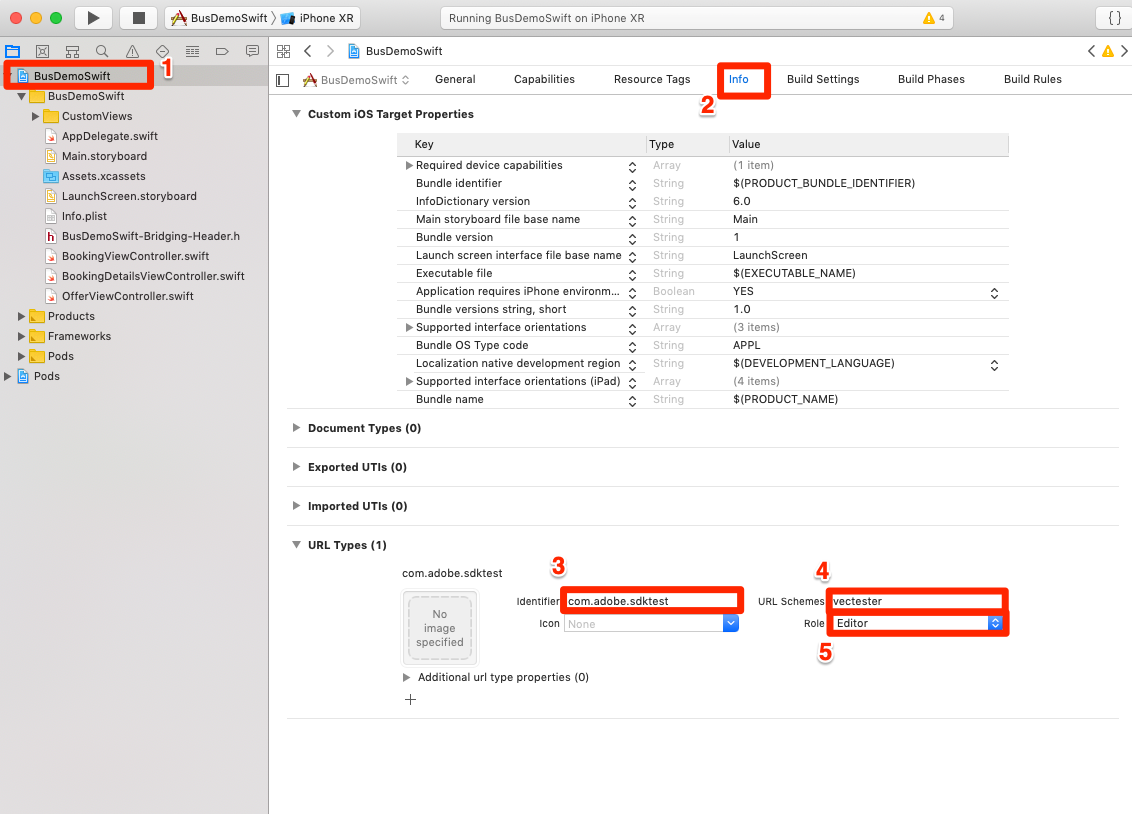
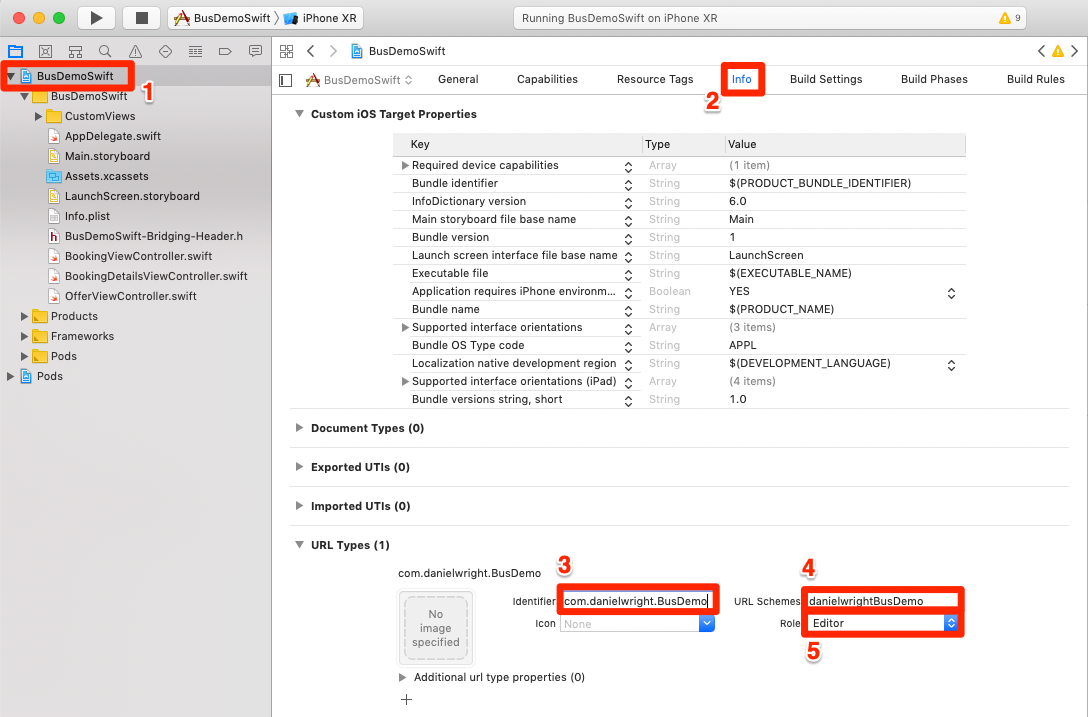
Target VEC section updates

Changed region(s): [[0.0, 0.0, 1.0, 1.0], [0.5625, 0.1534, 0.5938, 0.1841]]

diff --git a/help/mobile-ios-implementation/target.md b/help/mobile-ios-implementation/target.md
@@ -10,13 +10,20 @@ solution: Experience Cloud
 
 In this lesson, we will enable the Target Visual Experience Composer (VEC) for Mobile apps.
 
-[Adobe Target](https://marketing.adobe.com/resources/help/en_US/target/) is the Adobe Marketing Cloud solution that provides everything you need to tailor and personalize your customers' experience, so you can maximize revenue on your web and mobile sites, apps, social media, and other digital channels.
+[Adobe Target](https://marketing.adobe.com/resources/help/en_US/target/) is the Adobe Experience Cloud solution that provides everything you need to tailor and personalize your customers' experience, so you can maximize revenue on your web and mobile sites, apps, social media, and other digital channels.
+
+The Visual Experience Composer (VEC) for Native Mobile Apps lets you create activities and personalize content on native mobile apps in a do-it-yourself fashion without continuous development dependencies and app-release cycles.
+
+In the lesson [Add Extensions](launch-add-extensions.md), you added the Target VEC extension to your Launch property. In the lesson [Install the Mobile SDK](launch-install-the-mobile-sdk.md) you imported the extension into the sample application. Only a few minor updates are required to start setting up activities in Target's mobile visual experience composer!
+
+>[!NOTE] Both the Target and Target VEC Launch extensions are required to use the Target VEC in your mobile application.
 
 ## Learning Objectives
 
 At the end of this lesson, you will be able to:
 
 * Enable the sample app for the Target VEC
+* Add parameters to the Target VEC request
 * Pair your device with the VEC
 * Create an activity using the VEC
 
@@ -24,25 +31,83 @@ At the end of this lesson, you will be able to:
 
 To complete the lessons in this section, you must first complete the lessons in [Configure Launch](launch-create-a-property.md) section.
 
-## Enabling the VEC
+## Enable logging for the Target VEC extension
 
-In the lesson [Add Extensions](launch-add-extensions.md), you added the Target VEC extension to your Launch property, and in the lesson [Install the Mobile SDK](launch-install-the-mobile-sdk.md) you imported the extension into the sample application. Only a few minor updates are required to start setting up activities in Target's mobile visual experience composer!
+This is an optional step that will turn on special console logging specific to the VEC extension.
 
->[!NOTE] Both the Target and Target VEC Launch extensions are required to use the Target VEC in your mobile application.
+**To enable logging**
 
-iOS supports the use of [custom URL schemes](https://developer.apple.com/documentation/uikit/core_app/allowing_apps_and_websites_to_link_to_your_content/defining_a_custom_url_scheme_for_your_app) to deep link to your app. You might already be using custom URL schemes in your app already.
+1. Open the AppDelegate.swift file
+1. Add the line of code `ACPTargetVEC.allowDebugLogging(true)` just below the line where you register the Target VEC Extension
+
+   ![Enable Target VEC Logging](images/mobile-targetvec-enableLogging.png)
+
+Now that you've enabled the logging, it's time to confirm that it is working.
+
+**To verify the logging**
+
+1. Save the XCode project
+1. Rebuild the app
+1. When the app has opened successfully click in the Console pane of XCode
+1. Use ⌘-F to open the Find box
+1. Search for `targetvec` in the Find box
+1. Hit `Enter` to jump to the Target request and Post body (Note that the Lifecycle parameters are automatically included):
+
+   ![Verify Target VEC Logging](images/mobile-targetvec-requestInConsole.png)
+
+## Add Parameters
+
+As you just saw in the last exercise, app Lifecycle metrics are automatically included as parameters in the Target VEC request. You can also add custom parameters to the requests.
+
+**To add custom parameters**
+
+1. In XCode, open the `BookingViewController.swift` file
+1. Import the Target VEC extension by adding `import ACPTargetVEC_iOS` beneath the existing import:
+1. In the `viewDidLoad()` function, after the line with `super.viewDidLoad()` add the following code. This example code shows how mbox parameters, profile parameters, product (or entity) parameters, and order parameters can be added to the TargetVEC request. This example uses static values, while in your actual app you would want to use dynamic variables to populate the values:
+
+```swift
+        let mboxParams = ["mboxparam1":"mboxvalue1"]
+        let profileParams = ["profilekey1":"profilevalue1"]
+        let product : TargetProduct = TargetProduct.init(productId: "1234", categoryId: "furniture")
+        let order : TargetOrder = TargetOrder.init(orderId: "12345", total: 123.45, purchasedProductIds: ["100", "200"])
+        let targetParams : TargetParameters = TargetParameters.init(parameters: mboxParams, profileParameters: profileParams, product: product, order: order)
+        ACPTargetVEC.setGlobalRequest(targetParams)
+```
+
+   ![Add Parameters to the TargetVEC request](images/mobile-targetvec-addParameters.png)
+
+Now that you've added parameters to the app, it's time to confirm they are being passed in the request.
+
+**To verify the parameters**
+
+1. Save the XCode project
+1. Rebuild the app
+1. When the app has opened successfully click in the Console pane of XCode
+1. Use ⌘-F to open the Find box
+1. Search for `targetvec` in the Find box
+1. Hit `Enter` to jump to the Target request and Post body (Note that the Lifecycle parameters are automatically included):
+
+   ![Verify Parameters to the TargetVEC request](images/mobile-targetvec-verifyParams.png)
+
+## Pairing the Mobile App with the Target UI
+
+In order to create VEC activities in the Target interface, you must first pair Target with your app. This pairing is achieved with the use of deep links.
+
+### Creating the Deep Link Scheme
+
+iOS supports the use of [Universal Links](https://developer.apple.com/documentation/uikit/core_app/allowing_apps_and_websites_to_link_to_your_content) and [custom URL schemes](https://developer.apple.com/documentation/uikit/core_app/allowing_apps_and_websites_to_link_to_your_content/defining_a_custom_url_scheme_for_your_app) to create deep links to your app. You are probably already using custom URL schemes in your app already. If so, you can use these existing links to pair with Target. For this tutorial using the sample app in the simulator, you must create a custom URL scheme.
 
 **To register your URL Scheme**
 
 1. In XCode, click on your app to open the Settings screen
 1. On the Settings screen, click the `Info` tab
-1. Enter the **[!UICONTROL Identifier]** (e.g. `com.adobe.sdktest`)
-1. Enter the **[!UICONTROL URL Scheme]** (e.g. `vectester`)
+1. Enter a **[!UICONTROL Identifier]** (e.g. `com.danielwright.BusDemo` substituting your name for `danielwright`)
+1. Enter the **[!UICONTROL URL Scheme]** (e.g. `danielwrightBusDemo` substituting your name for `danielwright`)
 1. Make sure  **[!UICONTROL Editor]** is selected as the **[!UICONTROL Role]**
 
    ![Register the URL Scheme](images/mobile-targetvec-registerScheme.png)
 
-1. Click on the `General` tab
+1. Click on the `General` tab so the scheme will save
 1. Click back on the `Info` tab, expand the `URL type` section and verify that your URL type saved
   
 The next step is to add a handler to the deep link.
@@ -50,11 +115,26 @@ The next step is to add a handler to the deep link.
 **To handle the deep links**
 
 1. Open the AppDelegate.swift file
-1. Add the line `ACPTargetVEC.handleDeepLink(url)` to the `application(_:open:options;)` method `AppDelegate:application:openURL` section as pictured below
+1. Add the line `ACPTargetVEC.handleDeepLink(url)` to the `AppDelegate:application:openURL` section as pictured below
    ![Update the AppDelegate file](images/mobile-targetvec-appDelegate.png)
-1. Rebuild the app in the simulator again
 
-Now, when a user with your app installed opens the URL `vectester://com.adobe.sdktest` it will open your application.
+### Verify the deep link
+
+Now, when a user with your app installed opens the URL `danielwrightBusDemo://com.danielwright.BusDemo` (or whatever scheme you defined) it will open your application.
+
+**To verify the deep link scheme**
+
+1. Save the XCode project
+1. Rebuild the app
+1. In the simulator, open Safari
+1. Enter the url scheme you just defined into the address bar, e.g. `danielwrightBusDemo://com.danielwright.BusDemo`
+1. You should get prompted with a modal to "Open this page in "BusDemoSwift" (if you get a Google search results page, try reentering the deep link into the address bar)
+1. Click `Open`
+1. This should open the sample application
+
+   ![Verify the deep link](images/mobile-targetvec-verifyDeepLink.png)
+
+Now that your deep link structure is set up, you are ready to use the Target VEC to set up activities!
 
 ## Create an activity in the Mobile VEC
 
@@ -62,9 +142,15 @@ Now let's create an activity in the Target UI.
 
 **To Create an Activity with the Target VEC**
 
-1. Log into the Experience Cloud
+1. Log into the [Adobe Experience Cloud](https://experiencecloud.adobe.com)
 1. Use the solution switcher to go to Target
+
+   ![Verify the deep link](images/mobile-targetvec-goToTarget.png)
+
 1. Launch Target
+
+   ![Verify the deep link](images/mobile-targetvec-launchTarget.png)
+
 1. Click the **[!UICONTROL Create Activity]** button and select **[!UICONTROL A/B Test]**
 1. Select **[!UICONTROL Mobile App]**
 1. Make sure **[!UICONTROL Visual]** is selected under **[!UICONTROL Choose Experience Composer]**
@@ -72,15 +158,58 @@ Now let's create an activity in the Target UI.
   
    ![Create an A/B Activity using the Mobile VEC](images/mobile-targetvec-createActivity.png)
 
-1. Enter `vectester://com.adobe.sdktest` in the **[!UICONTROL Enter URL scheme ://]** field
+1. On the **[!UICONTROL Select an app to use]** screen, click **[!UICONTROL Add New App]**
+
+   ![Add a new app](images/mobile-targetvec-addNewApp.png)
+
+1. Enter the url scheme you just defined in the  **[!UICONTROL Enter URL scheme]** field, e.g. `danielwrightBusDemo://com.danielwright.BusDemo`
 1. Click **[!UICONTROL Create Deep Link]**
+
    ![Enter your URL Scheme and Create the Deep Link](images/mobile-targetvec-enterURLScheme.png)
-1. Select the **[!UICONTROL Email]** tab.
-1. Enter your email address in the **[!UICONTROL Primary address]** field
-1. Click the **[!UICONTROL Send]** button
-1. Now open the app in the simulator
-1. Log into your web-based email and...
-   ![test](images/mobile-targetvec-sendURL.png)
-   ![test](images/mobile-targetvec-openEmailInEmulator.png)
+
+    >![NOTE] You have a few options to send the deep link to the app. You can:
+    >
+    >   1. Take a photo of the QR code if you have an iOS device linked to XCode
+    >   1. Copy the deep link from the Target interface and send it to the device however you would like
+    >   1. Email the deep link to a valid email address and then open the link with an email application on the device
+
+1. Click on the **[!UICONTROL Copy & Send Link]** tab.
+
+   ![Copy the URL](images/mobile-targetvec-copyURL.png)
+
+1. Switch back to the Simulator
+1. Open Safari in the Simulator
+1. Paste the deep link URL into the address bar
+1. Click to open the app
+
+   ![Copy the URL](images/mobile-targetvec-pasteURL.png)
+
+    >![TIP] If you are unsuccessful when copy-and-pasting the URL from your Desktop to the Simulator try one of the following tricks:
+    >
+    >   1. **If your Desktop's clipboard is not synced with your Simulator's clipboard** this will prevent you from copy-and-pasting the URL from the Target UI into the Simulator's Safari browser. If this happens, try toggling off and on the `Automatically Sync Pasteboard` setting in the Simulator and copy/pasting again
+    >
+    >      ![Toggle the Simulator's clipboard setting](images/mobile-targetvec-toggleClipboard.png)
+    >
+    >   1. **If going to your URL keeps performing a search instead of opening the app**, and you were successful opening a deep link earlier, you won't be able to complete the pairing. Try repasting the deep link URL into the address bar and hitting `Enter` a few times.
+
+1. After the App has loaded, switch back to your browser tab where you have Target opened. You should see your app loaded in the VEC.
+1. Click on text and image assets in your app and you should see options to edit and replace them!
+
+   ![App loads in the VEC](images/mobile-targetvec-devicePaired.png)
+
+1. Make some changes to the first screen in your app
+1. Now position the Simulator next to the browser with the VEC open
+1. Navigate to a different screen in the app and notice how the VEC updates with the Simulator!
+1. You can make updates to multiple views in your app, in a single activity!
+   ![App loads in the VEC](images/mobile-targetvec-navigateTheApp.png)
+1. You can also visually add click-tracking metrics!
+
+## Building Audiences based on Lifecyle metrics
+
+You can easily build Target Audiences based on Lifecycle metrics. Look for all of the Lifecycle metric parameters in the **[!UICONTROL Custom]** selection of the Audience builder:
+
+   ![Select the Custom option](images/mobile-targetvec-buildingAudiencesCustom.png)
+
+   ![App loads in the VEC](images/mobile-targetvec-buildingAudiences.png)
   
 [Next "Add Adobe Analytics" >](analytics.md)

diff --git a/help/mobile-ios-implementation/launch-install-the-mobile-sdk.md b/help/mobile-ios-implementation/launch-install-the-mobile-sdk.md
@@ -93,33 +93,47 @@ Now it's time to update the App to import the SDK
 
 1. Open the `BusDemoSwift.xcworkspace` file in XCode
 1. Open the AppDelegate.swift file
+
    ![Copy the Swift import statements to your clipboard](images/mobile-launch-install-openAppDelegate.png)
+
 1. In the Launch interface, scroll to the **[!UICONTROL Add Initialization Code]** section and choose **[!UICONTROL Swift]** as the iOS language you are using.
 1. Copy the import statements, by clicking the first ![Copy](images/mobile-launch-copyIcon.png) icon in the [!UICONTROL Add Initialization Code] section:
+
    ![Copy the Swift import statements to your clipboard](images/mobile-launch-install-copyImports.png)
+
 1. In XCode, paste these import statements into the AppDelegate file after the import for the `UIKit`
+
    ![Paste the Swift import statements into your AppDelegate file](images/mobile-launch-install-pasteImports.png)
 
 1. In the Launch interface, copy the two lines related to the Core extension, by clicking the second ![Copy](images/mobile-launch-copyIcon.png) icon in the [!UICONTROL Add Initialization Code] section. The first line turns on console logging statements (available options are "debug", "verbose", "warning", and "error"). The second line points to the unique identifier of the Launch environment. This is important, as you will need to update this value when we are ready to deploy the app to the production environment.
+
    ![Copy the Core statements to your clipboard](images/mobile-launch-install-copyCore.png)
+
 1. In XCode, paste these Core statements into the AppDelegate file at the top of the `application(_:didFinishLaunchingWithOptions:)` method:
+
    ![Paste the Core statements into your AppDelegate file](images/mobile-launch-install-pasteCore.png)
 
 1. In the Launch interface, copy the extension statements, by clicking the third ![Copy](images/mobile-launch-copyIcon.png) icon in the [!UICONTROL Add Initialization Code] section:
+
    ![Copy the Extension statements to your clipboard](images/mobile-launch-install-copyExtensions.png)
+
 1. In XCode, paste these extension statements into the AppDelegate file just before the `return true` line of the `application(_:didFinishLaunchingWithOptions:)` method:
+
    ![Paste the Extension statements into your AppDelegate file](images/mobile-launch-install-pasteExtension.png)
 
 ## Verify the implementation
 
 1. Save your XCode project
 1. Run the app and launch it in the emulator. If you don't have any emulator devices configured, configure one now, being sure to configure a device running iOS 10+ (in the screenshots below, the app will launch in an iPhone XR emulator)
+
    ![Run the app and launch it in the emulator](images/mobile-launch-install-buildAndLaunch.png)
+
 1. Wait for the emulator to launch and fully open the app to the booking screen
 
    ![Wait for the app to full open](images/mobile-launch-install-simulator.png)
   
 1. Confirm that calls are being made to the Adobe servers in the XCode Console
+
    ![Wait for the app to full open](images/mobile-launch-install-console.png)
 
 Here are examples of some specific calls you can look for:
